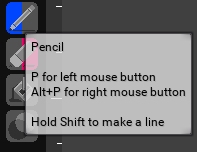
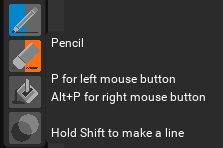
Corrected the toolbar documentation based on the v0.7 theme (#5)

diff --git a/docs/toolbar.md b/docs/toolbar.md
@@ -6,26 +6,28 @@ sidebar_label: Toolbar
 
 ###### One of the first things you'll come across when you launch the program is this toolbar on your left.
 
-### Pixelorama's toolbar looks like this:
+### Pixelorama's toolbar can be found on the left side of the UI:
 
-![Toolbar](assets/toolbar.png)
+![Toolbar](assets/ui-toolbar.png)
 
-###### Here you'll find the tools you'll be using to create whatever your heart tells you. This list is bound to change/expand in future updates. 
+##### Here you'll find the tools you'll be using to create whatever your heart tells you. This list is bound to change/expand in future updates. 
 
 ## The tools you see in order are:
-##### 1. Rectangular Selection
-##### 2. Zoom
-##### 3. Color Picker
-##### 4. Pencil
-##### 5. Eraser
-##### 6. Bucket
-##### 7. Lighten/Darken
+ 1. Rectangular Selection
+ 2. Zoom
+ 3. Color Picker
+ 4. Pencil
+ 5. Eraser
+ 6. Bucket
+ 7. Lighten/Darken
 
-###### Hovering your mouse over the tool of your choice will result in a small display that describes it further. It will look like this:
+The purpose of the toolbar is to enable easy access to all of the available tools. The tool you choose changes the available tool options you can find on the right side of the UI. For more details find the page "tool options" in the documentation.
+
+Hovering your mouse over the tool of your choice will result in a small display that describes it further. It will look like this:
 
 ![Hover](assets/toolbar_hover.png)
 
-###### Note that some of the tools are half blue and half pink. Blue represents the left click and pink represents the right click. So, if for example you left click on the pencil tool, its icon will turn half blue, indicating that this tool is mapped for the left click. If you right click on another tool, its icon will turn half pink, indicating that it's mapped for the right click. So, every time you are on your canvas, if you left click, the tool that you left clicked on the toolbar will be used and if you right click, the tool that you right clicked will be used. You can left and right click the same tool, making it both blue and pink, indicating that this tool will be used by either click on the canvas. Some alterations can seen below:
+Note that some of the tools are half blue and half orange. Blue represents the left click and orange represents the right click. So, if for example you left click on the pencil tool, its icon will turn half blue, indicating that this tool is mapped for the left click. If you right click on another tool, its icon will turn half orange, indicating that it's mapped for the right click. So, every time you are on your canvas, if you left click, the tool that you left clicked on the toolbar will be used and if you right click, the tool that you right clicked will be used. You can left and right click the same tool, making it both blue and orange, indicating that this tool will be used by either click on the canvas. Some alterations can seen below:
 
 <div style={{textAlign: 'center'}}>
 <img src="assets/toolbar_example_1.png"/>
